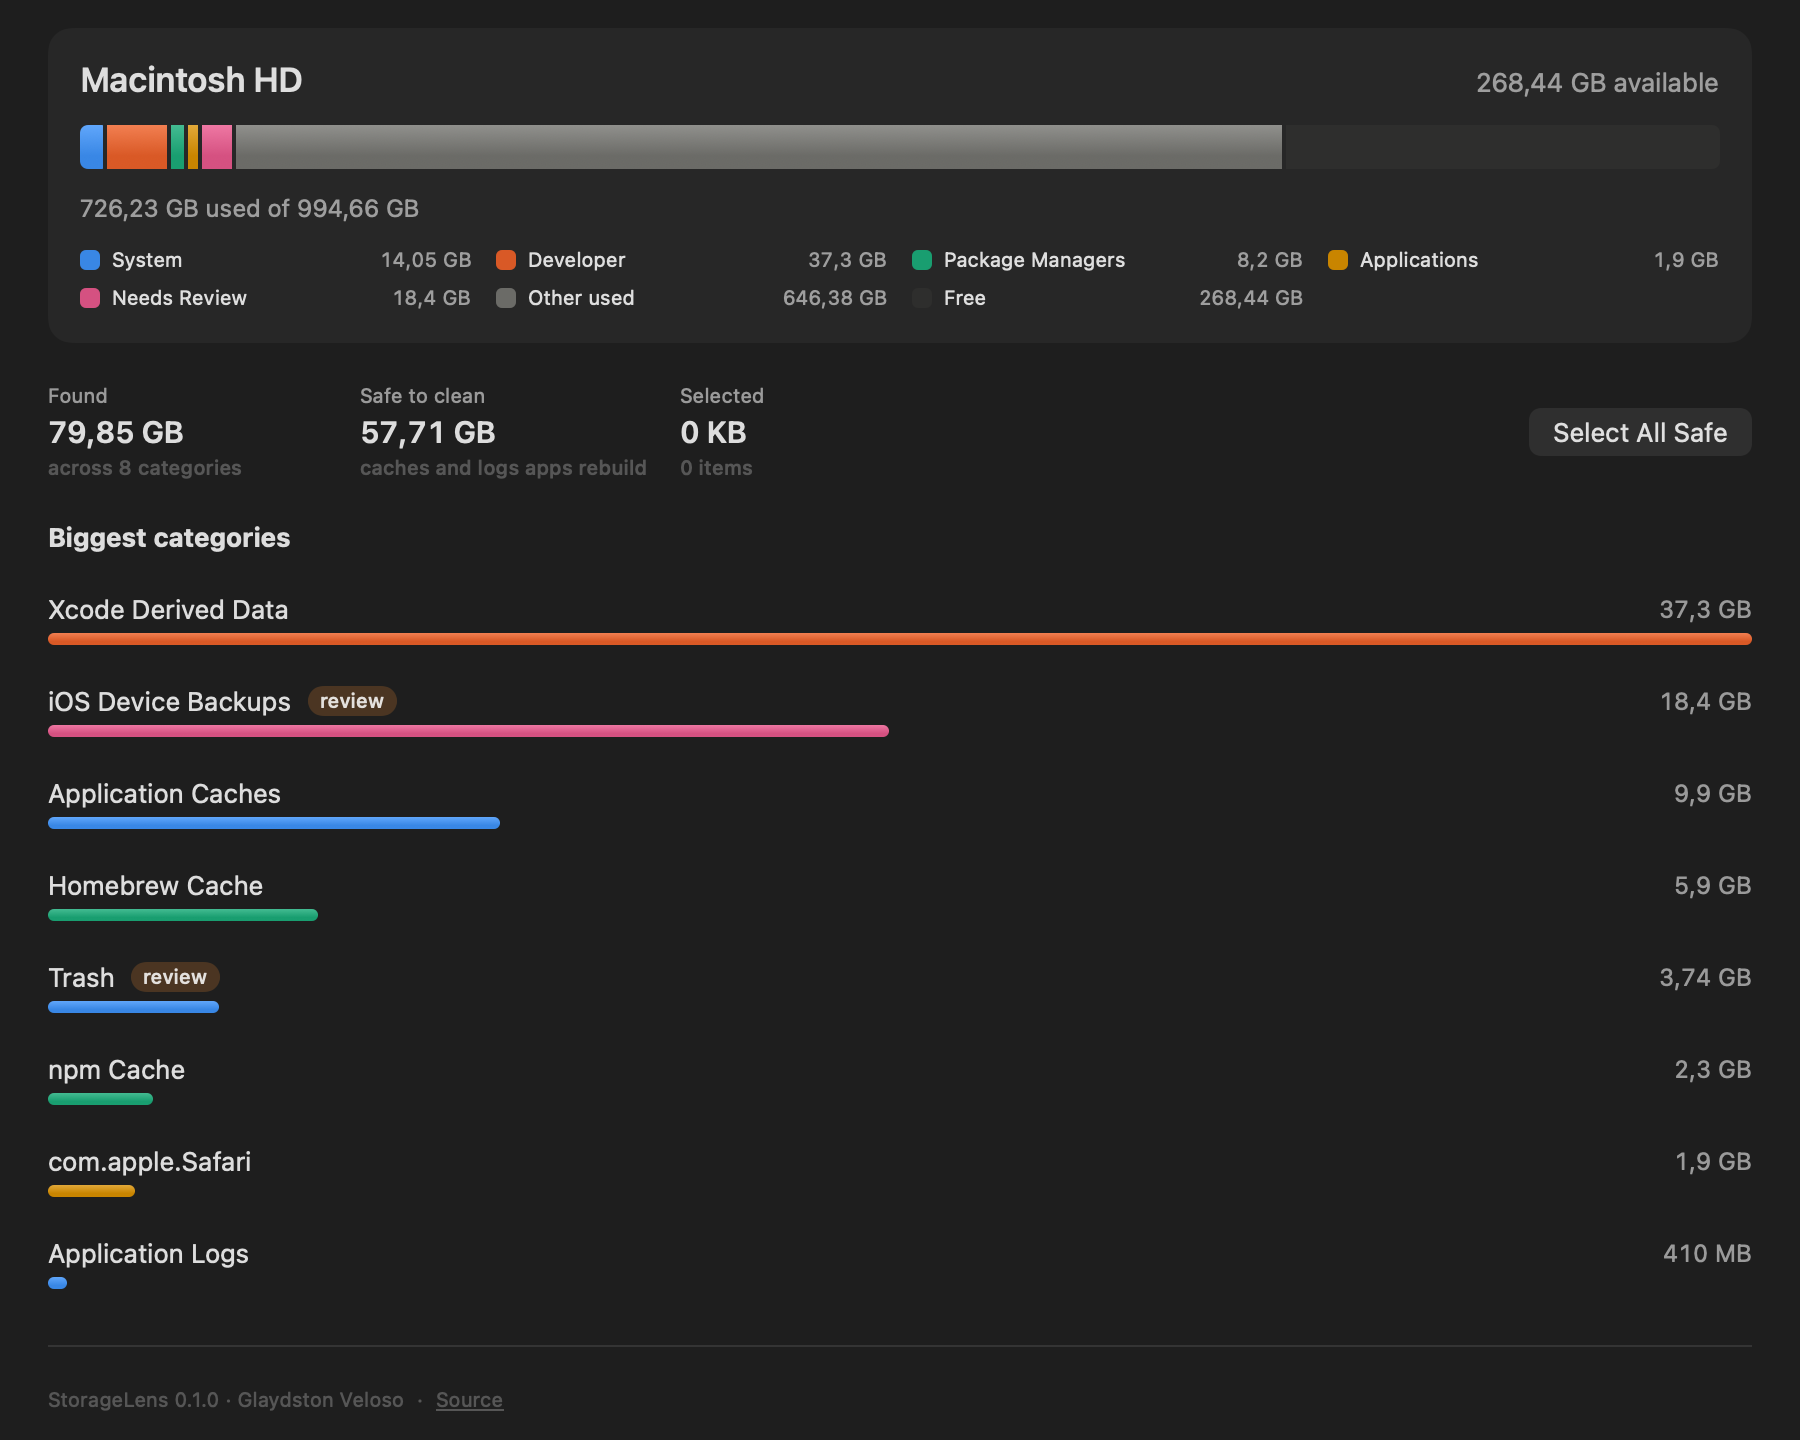
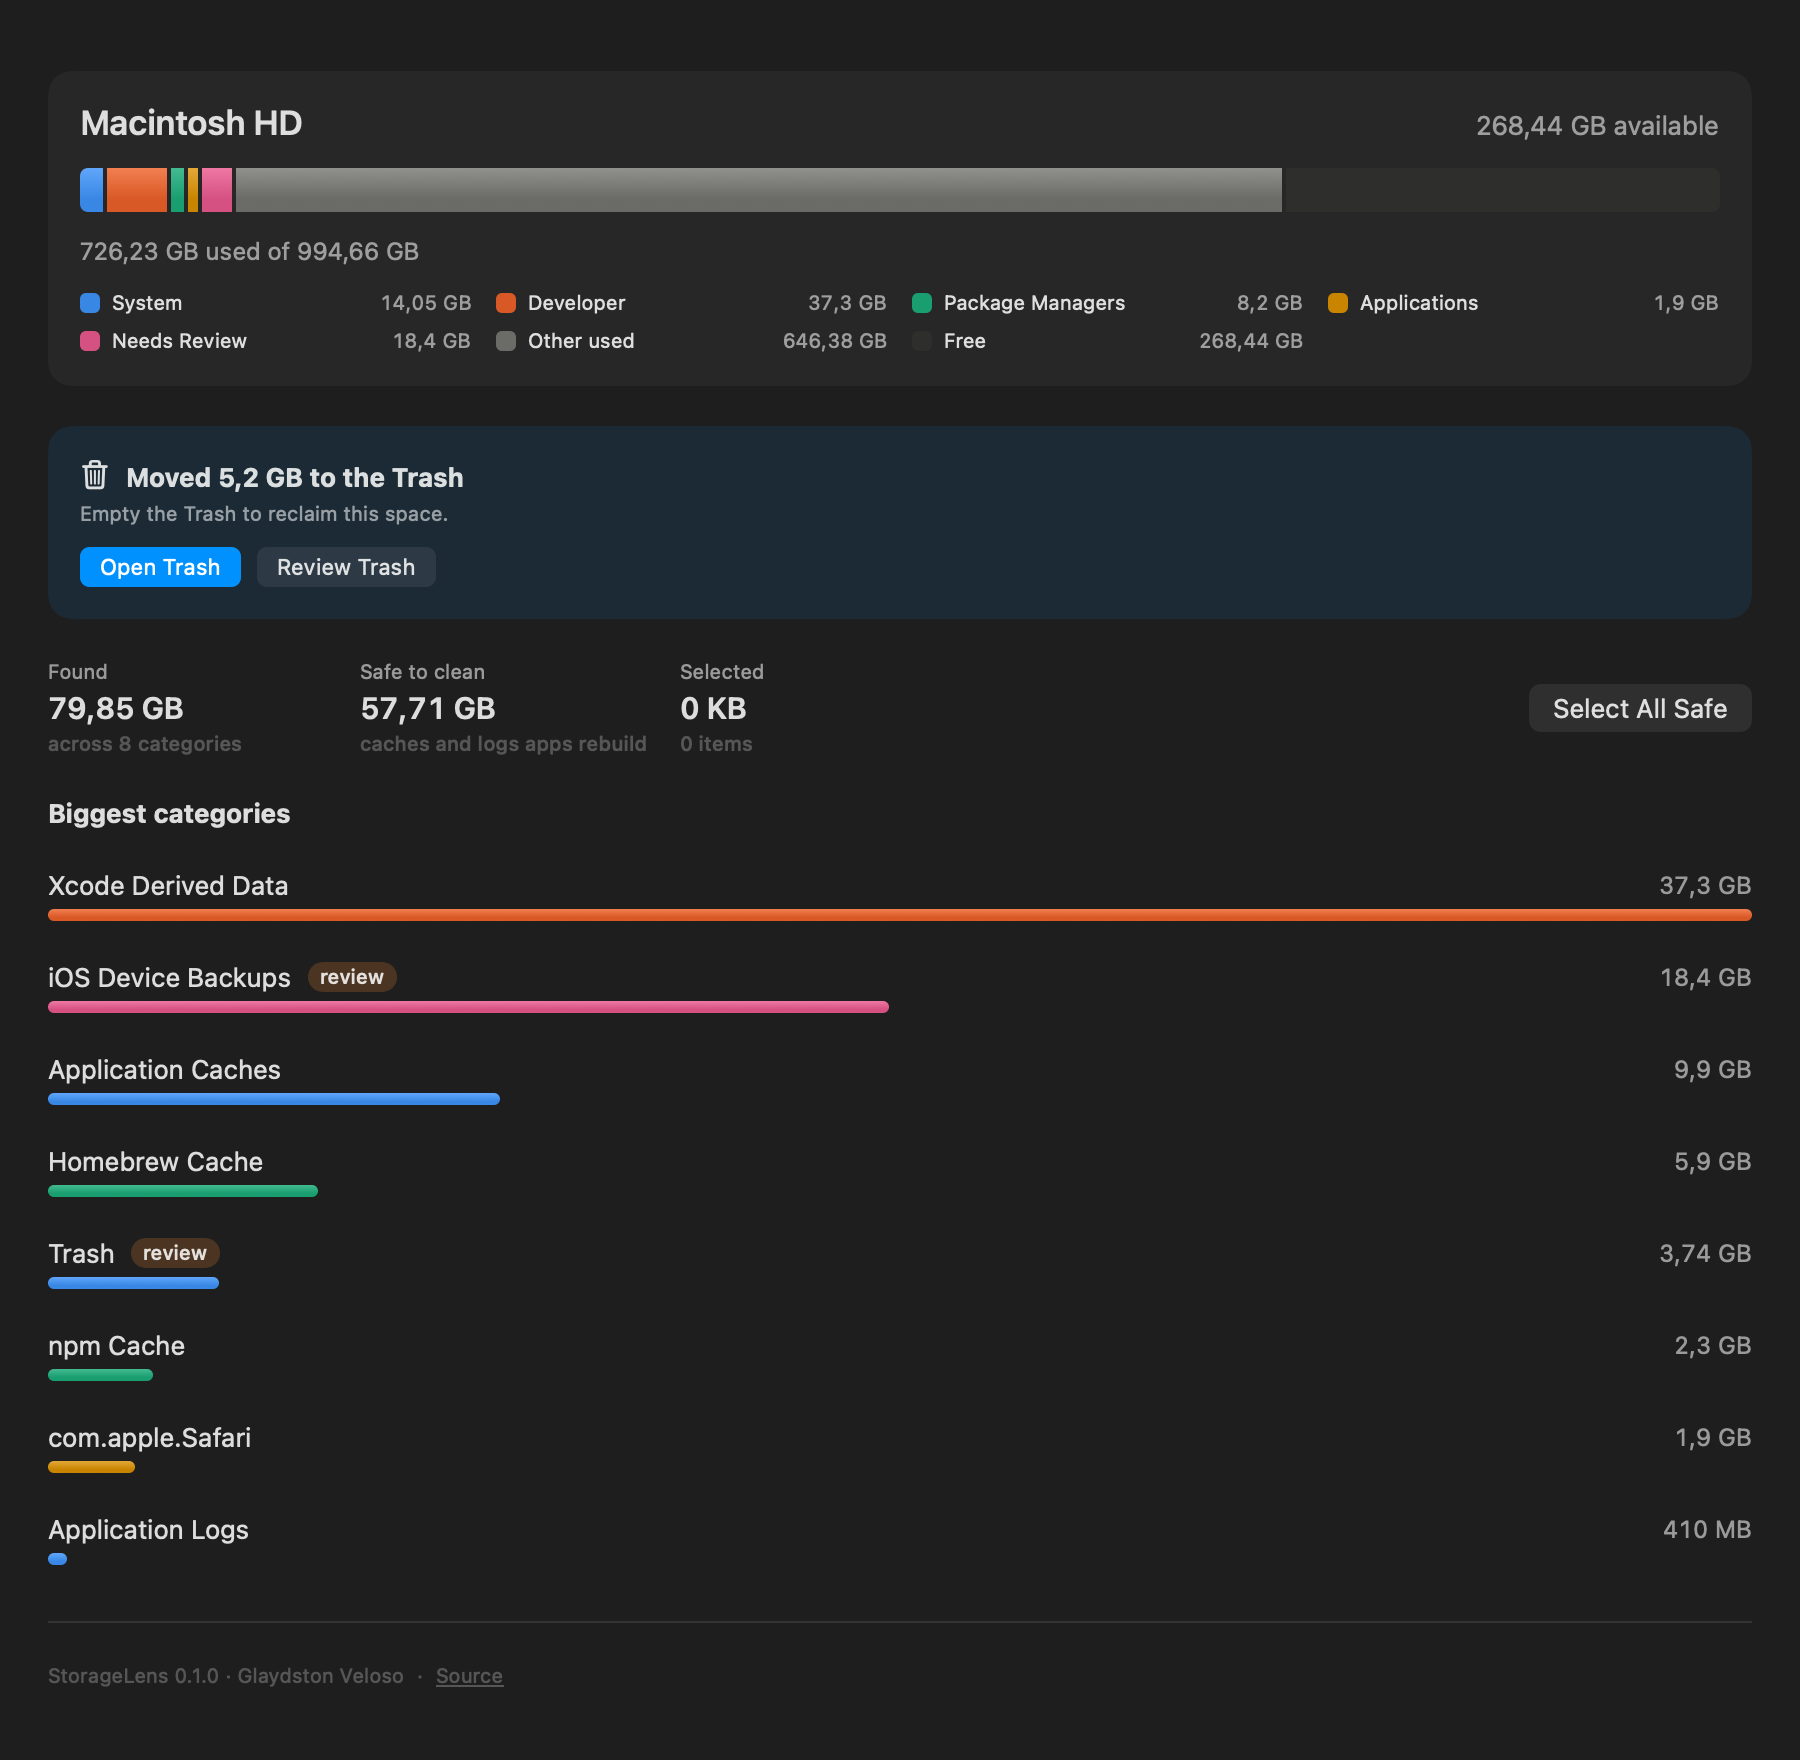
fix: make the Trash reachable, and stop claiming space is freed when it isn't
Trashed items still occupy the disk until the Trash is emptied, so the report
now says 'Moved X to the Trash' with the reason, and reports permanent
deletions separately as freed. Adds Open Trash / Review Trash actions, an
Open in Finder button per category, a ⇧⌘T command, and a re-scan of the Trash
category after a clean so its size reflects what just moved there.

diff --git a/Sources/StorageLens/OverviewView.swift b/Sources/StorageLens/OverviewView.swift
@@ -185,20 +185,43 @@ struct CategoryBar: View {
 }
 
 struct CleanReportCard: View {
+    @Environment(ScanModel.self) private var model
     let report: CleanupReport
 
-    var body: some View {
-        VStack(alignment: .leading, spacing: 6) {
-            Label(
-                L("Freed %@", ByteFormat.string(report.reclaimed)),
-                systemImage: "checkmark.circle"
-            )
-            .font(.headline)
-            .foregroundStyle(.green)
+    /// Trashed and deleted are reported separately on purpose: only the deleted
+    /// bytes are gone. Trashed ones still occupy the disk until the Trash is
+    /// emptied, and saying "freed" for those would be a lie the volume gauge
+    /// immediately contradicts.
+    private var trashed: [CleanupOutcome] { report.succeeded.filter { $0.removal == .trash } }
+    private var deleted: [CleanupOutcome] { report.succeeded.filter { $0.removal == .permanent } }
 
-            Text(LPlural("%lld items removed", report.succeeded.count))
-                .font(.caption)
-                .foregroundStyle(.secondary)
+    private var trashedSize: Int64 { trashed.reduce(0) { $0 + $1.reclaimed } }
+    private var deletedSize: Int64 { deleted.reduce(0) { $0 + $1.reclaimed } }
+
+    var body: some View {
+        VStack(alignment: .leading, spacing: 10) {
+            if !trashed.isEmpty {
+                VStack(alignment: .leading, spacing: 4) {
+                    Label(
+                        L("Moved %@ to the Trash", ByteFormat.string(trashedSize)),
+                        systemImage: "trash"
+                    )
+                    .font(.headline)
+
+                    Text(L("Empty the Trash to reclaim this space."))
+                        .font(.caption)
+                        .foregroundStyle(.secondary)
+                }
+            }
+
+            if !deleted.isEmpty {
+                Label(
+                    L("Freed %@", ByteFormat.string(deletedSize)),
+                    systemImage: "checkmark.circle"
+                )
+                .font(.headline)
+                .foregroundStyle(.green)
+            }
 
             ForEach(report.failed.prefix(5)) { outcome in
                 Text(L("Couldn't remove %@: %@", outcome.item.name, outcome.error ?? L("unknown error")))
@@ -210,10 +233,26 @@ struct CleanReportCard: View {
                     .font(.caption)
                     .foregroundStyle(.secondary)
             }
+
+            if !trashed.isEmpty {
+                HStack(spacing: 8) {
+                    Button(L("Open Trash")) { model.revealTrash() }
+                        .buttonStyle(.borderedProminent)
+                    if model.scan(id: ScanModel.trashRuleID) != nil {
+                        Button(L("Review Trash")) {
+                            model.route = .category(ScanModel.trashRuleID)
+                        }
+                    }
+                }
+                .controlSize(.small)
+            }
         }
         .padding(16)
         .frame(maxWidth: .infinity, alignment: .leading)
-        .background(.green.opacity(0.1), in: RoundedRectangle(cornerRadius: 12))
+        .background(
+            (trashed.isEmpty ? Color.green : Color.accentColor).opacity(0.1),
+            in: RoundedRectangle(cornerRadius: 12)
+        )
     }
 }
 

diff --git a/Sources/StorageLens/ScanModel.swift b/Sources/StorageLens/ScanModel.swift
@@ -1,3 +1,4 @@
+import AppKit
 import Foundation
 import Observation
 import StorageLensKit
@@ -121,6 +122,20 @@ final class ScanModel {
         }
         model.ruleCount = model.scans.count
         model.scannedCount = model.scans.count
+
+        if let trash = model.scans.first(where: { $0.rule.id == trashRuleID }),
+           let item = trash.items.first {
+            model.lastReport = CleanupReport(outcomes: [
+                CleanupOutcome(item: item, removal: .trash, error: nil),
+                CleanupOutcome(
+                    item: ScannedItem(
+                        url: trash.rule.root.appendingPathComponent("old"),
+                        name: "old", size: 2_100_000_000, modified: nil, isDirectory: true
+                    ),
+                    removal: .trash, error: nil
+                ),
+            ])
+        }
         return model
     }
 
@@ -210,5 +225,41 @@ final class ScanModel {
         }
         selection.subtract(removed)
         volume = try? VolumeInfo.current()
+
+        // Whatever was trashed just landed in the Trash, so that category is now
+        // stale — and it's the one the user is about to look at.
+        refreshTrash()
+    }
+
+    /// The Trash rule's id, so the UI can route to it after a clean.
+    static let trashRuleID = "trash"
+
+    var trashURL: URL {
+        URL(fileURLWithPath: NSHomeDirectory()).appendingPathComponent(".Trash")
+    }
+
+    /// Opens the Trash in Finder — where the space actually gets reclaimed.
+    func revealTrash() {
+        NSWorkspace.shared.open(trashURL)
+    }
+
+    func reveal(_ url: URL) {
+        NSWorkspace.shared.open(url)
+    }
+
+    private func refreshTrash() {
+        guard let rule = rules.first(where: { $0.id == Self.trashRuleID }) else { return }
+        Task { [scanner] in
+            let result = await scanner.scan(rule)
+            self.replace(result)
+        }
+    }
+
+    private func replace(_ scan: CategoryScan) {
+        if let index = scans.firstIndex(where: { $0.rule.id == scan.rule.id }) {
+            scans[index] = scan
+        } else {
+            scans.append(scan)
+        }
     }
 }

diff --git a/Sources/StorageLens/ContentView.swift b/Sources/StorageLens/ContentView.swift
@@ -77,7 +77,7 @@ struct ContentView: View {
         let size = ByteFormat.string(model.selectedSize)
         return model.selectionIncludesPermanent
             ? L("%@ will be freed. Your selection includes items already in the Trash, which cannot be recovered once deleted.", size)
-            : L("%@ will be freed. Everything goes to the Trash, so you can put it back until you empty it.", size)
+            : L("%@ will move to the Trash. The space is reclaimed when you empty it, and you can put items back until then.", size)
     }
 }
 

diff --git a/Sources/StorageLens/StorageLensApp.swift b/Sources/StorageLens/StorageLensApp.swift
@@ -34,6 +34,8 @@ struct StorageLensApp: App {
             CommandGroup(after: .newItem) {
                 Button(L("Rescan")) { model.rescan() }
                     .keyboardShortcut("r", modifiers: .command)
+                Button(L("Open Trash")) { model.revealTrash() }
+                    .keyboardShortcut("t", modifiers: [.command, .shift])
             }
             CommandGroup(replacing: .help) {
                 Button(L("%@ on GitHub", AppInfo.name)) {

diff --git a/Sources/StorageLens/CategoryDetailView.swift b/Sources/StorageLens/CategoryDetailView.swift
@@ -58,6 +58,8 @@ struct CategoryDetailView: View {
                 Button(L("Select All")) { model.selectAll(in: scan) }
                 Button(L("Select None")) { model.deselectAll(in: scan) }
                 Spacer()
+                Button(L("Open in Finder")) { model.reveal(scan.rule.root) }
+                    .disabled(!FileManager.default.fileExists(atPath: scan.rule.root.path))
             }
             .controlSize(.small)
         }

diff --git a/Sources/StorageLensKit/Cleaner.swift b/Sources/StorageLensKit/Cleaner.swift
@@ -26,6 +26,12 @@ public struct CleanupOutcome: Sendable, Identifiable {
     public let removal: CleanupRule.Removal
     public let error: String?
 
+    public init(item: ScannedItem, removal: CleanupRule.Removal, error: String?) {
+        self.item = item
+        self.removal = removal
+        self.error = error
+    }
+
     public var succeeded: Bool { error == nil }
     public var reclaimed: Int64 { succeeded ? item.size : 0 }
 }

diff --git a/Sources/StorageLens/Snapshot.swift b/Sources/StorageLens/Snapshot.swift
@@ -8,7 +8,7 @@ enum Snapshot {
     static func render(to url: URL, dark: Bool) {
         let view = OverviewContent()
             .environment(ScanModel.preview())
-            .frame(width: 900, height: 720)
+            .frame(width: 900, height: 880)
             .background(Color(nsColor: .windowBackgroundColor))
             .environment(\.colorScheme, dark ? .dark : .light)
 

diff --git a/README.md b/README.md
@@ -76,6 +76,14 @@ while it works, and categories fill in as their sizes land.
    was last modified, and a button to reveal it in Finder.
 4. The toolbar button on the right shows how much your selection would free.
    Click it, confirm, and the items go to the Trash.
+5. **Empty the Trash to actually get the space back.** Until you do, those
+   files still occupy the disk. After a clean the app says so and gives you
+   **Open Trash** (opens it in Finder) and **Review Trash** (opens the Trash
+   category here, where you can delete permanently). ⇧⌘T opens the Trash any
+   time, and every category has an **Open in Finder** button.
+
+The app refreshes itself after a clean — cleaned rows disappear, the volume bar
+re-reads, and the Trash category re-scans. No manual rescan needed.
 
 Nothing is ever removed without a selection and a confirmation. There is no
 auto-clean and no background agent.
